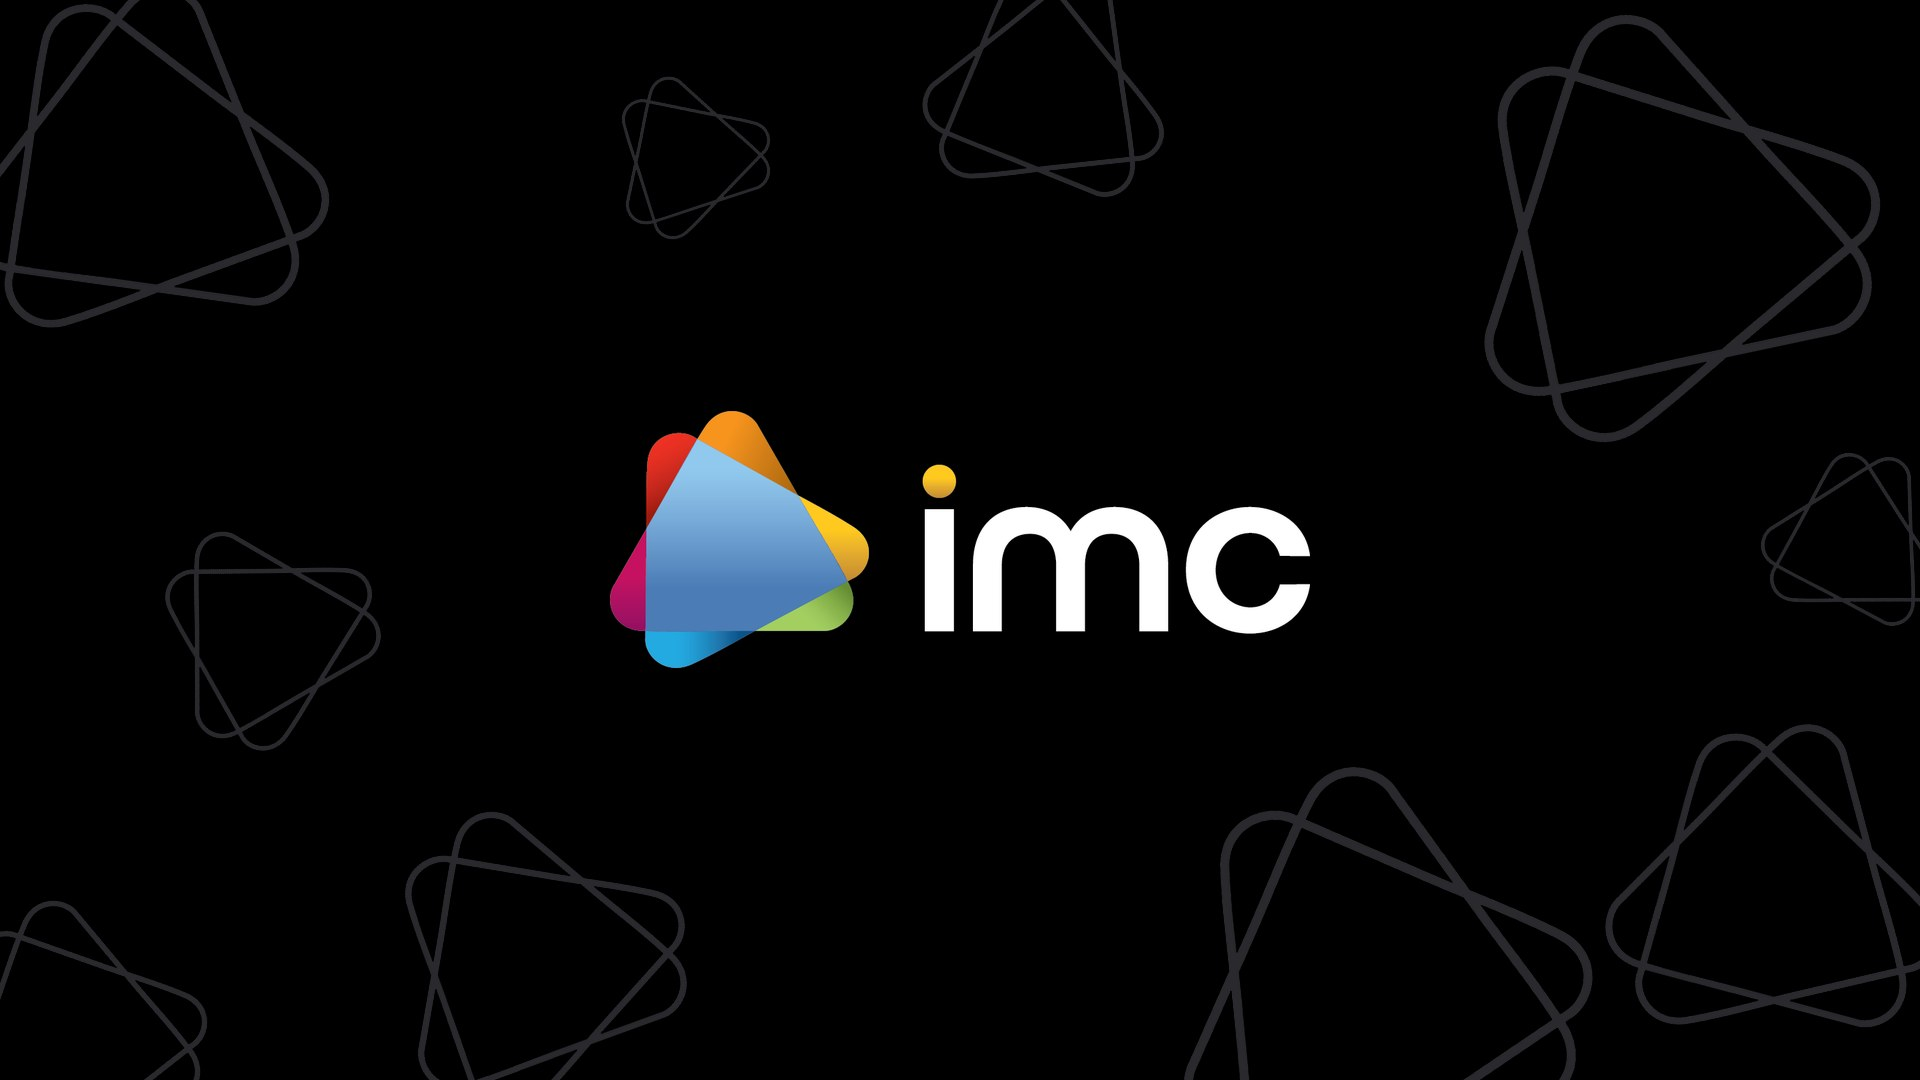
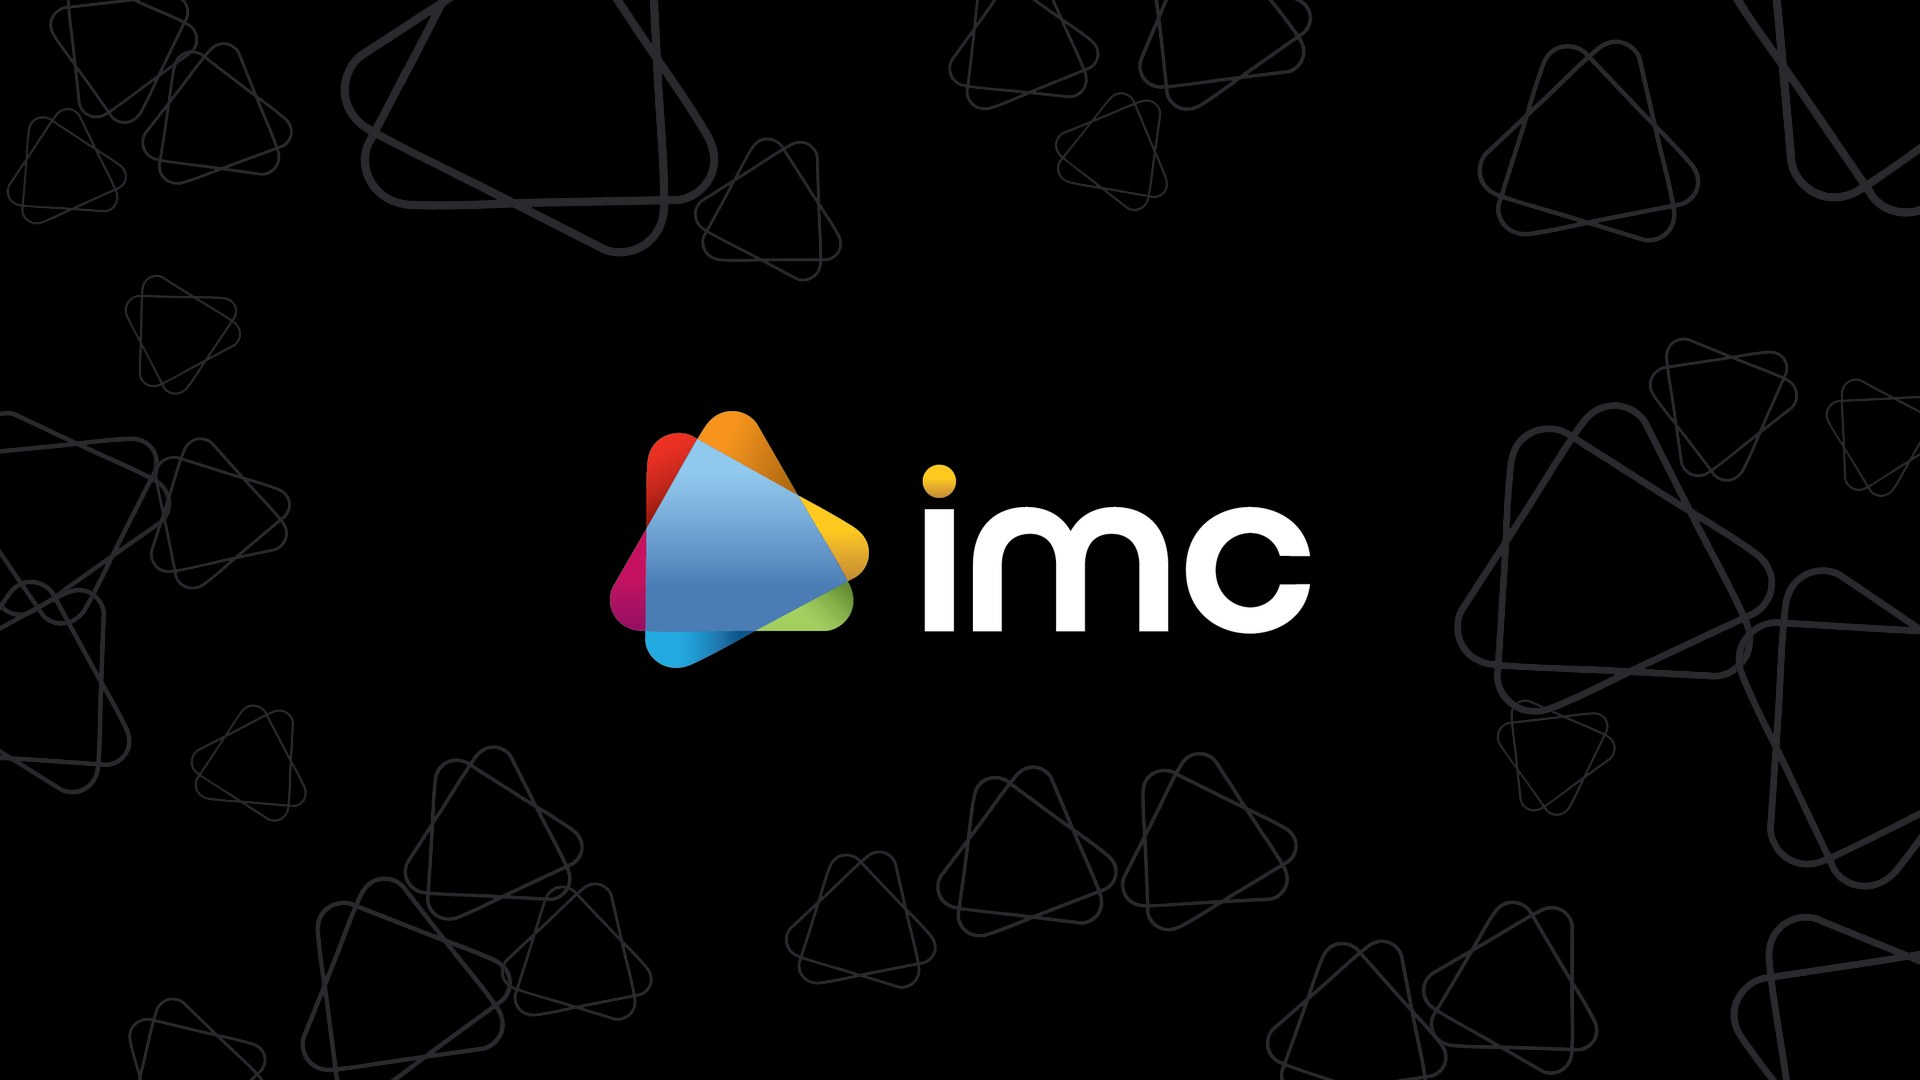
Backgrounds: texturas con más símbolos
Claude-Session: https://claude.ai/code/session_01H5fySRfK5n196uUSjTSokz

diff --git a/imotion-connect/index.html b/imotion-connect/index.html
@@ -703,8 +703,8 @@ footer .wrap{display:grid;grid-template-columns:minmax(0,1fr) minmax(0,1fr);gap:
    <div><p>Tres fondos para presentaciones, pantallas, videollamadas y piezas digitales. Sobre los fondos claros va la masterbrand; sobre el fondo negro, la sigla <b>imc</b> con el isotipo a color.</p></div>
   </div>
   <div class="bgs">
-   <figure class="bgw"><img src="assets/bg-lineas-blanco.jpg" alt="Fondo blanco con triángulos en línea y la masterbrand" loading="lazy"><figcaption><b>Triángulos en línea, sobre blanco</b> · Los triángulos del símbolo en azul muy suave, apenas visibles, con la masterbrand.</figcaption></figure>
-   <figure><img src="assets/bg-lineas-negro.jpg" alt="Fondo negro con triángulos en línea gris oscuro y la sigla imc" loading="lazy"><figcaption><b>Triángulos en línea, sobre negro</b> · Las líneas en gris oscuro, con la sigla <b>imc</b>.</figcaption></figure>
+   <figure class="bgw"><img src="assets/bg-lineas-blanco.jpg?v=2" alt="Fondo blanco con triángulos en línea y la masterbrand" loading="lazy"><figcaption><b>Triángulos en línea, sobre blanco</b> · Los triángulos del símbolo en azul muy suave, apenas visibles, con la masterbrand.</figcaption></figure>
+   <figure><img src="assets/bg-lineas-negro.jpg?v=2" alt="Fondo negro con triángulos en línea gris oscuro y la sigla imc" loading="lazy"><figcaption><b>Triángulos en línea, sobre negro</b> · Las líneas en gris oscuro, con la sigla <b>imc</b>.</figcaption></figure>
    <figure><img src="assets/bg-red.jpg" alt="Fondo claro con red de nodos conectados y la masterbrand" loading="lazy"><figcaption><b>Red de conexiones</b> · Nodos y líneas en gris celeste, con la masterbrand.</figcaption></figure>
   </div>
  </div>
